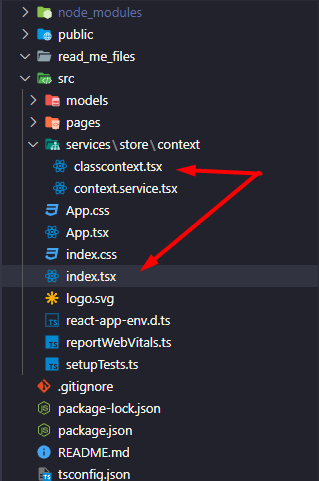
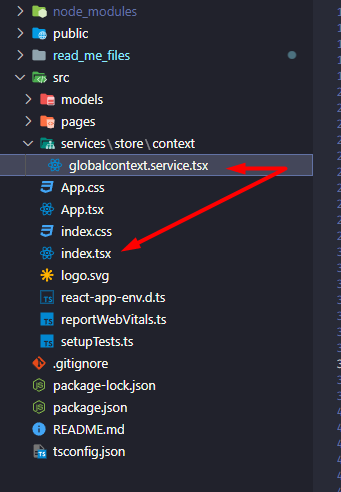
Global Context

Changed region(s): [[0.0, 0.0, 0.931, 1.0], [0.9875, 0.0, 1.0, 1.0], [0.8464, 0.0936, 0.8746, 0.1247]]

diff --git a/README.md b/README.md
@@ -5,20 +5,20 @@ React Global State Controll, for controll your states using simple Hook:
 
 ## 1 - Installation
 
-* Just copy there two files to your project (sugest on service folder):
+* Just copy there file to your project (sugest on service folder):
 
 ![Example](https://github.com/Souzanderson/reactroutemalbizer/blob/main/read_me_files/img1.png?raw=true)
 
 ## 2 - Usage
 
-* Import ```RouterService``` and ```RouterSctruct``` in ```index.tsx```, using method ```getInstance()``` of ```RouterService``` for create constant object, inscribe routes and call tag ```RouterStruct```, like this:
+* Import ```GlobalStateController``` in ```index.tsx``` and call tag, like this:
 
 
 ![Example](https://github.com/Souzanderson/reactroutemalbizer/blob/main/read_me_files/img2.png?raw=true)
 
-## 3 - Navigation
+## 3 - State Change
 
-* For navigation of pages inscribed on routes, just call method ```go('route_page')``` on ```NavigationRouter```:
+* For change your global state, import and instance ```StateChager```, call set  ```StateChager().state``` for change state:
 
 
 ![Example](https://github.com/Souzanderson/reactroutemalbizer/blob/main/read_me_files/img3.png?raw=true)
